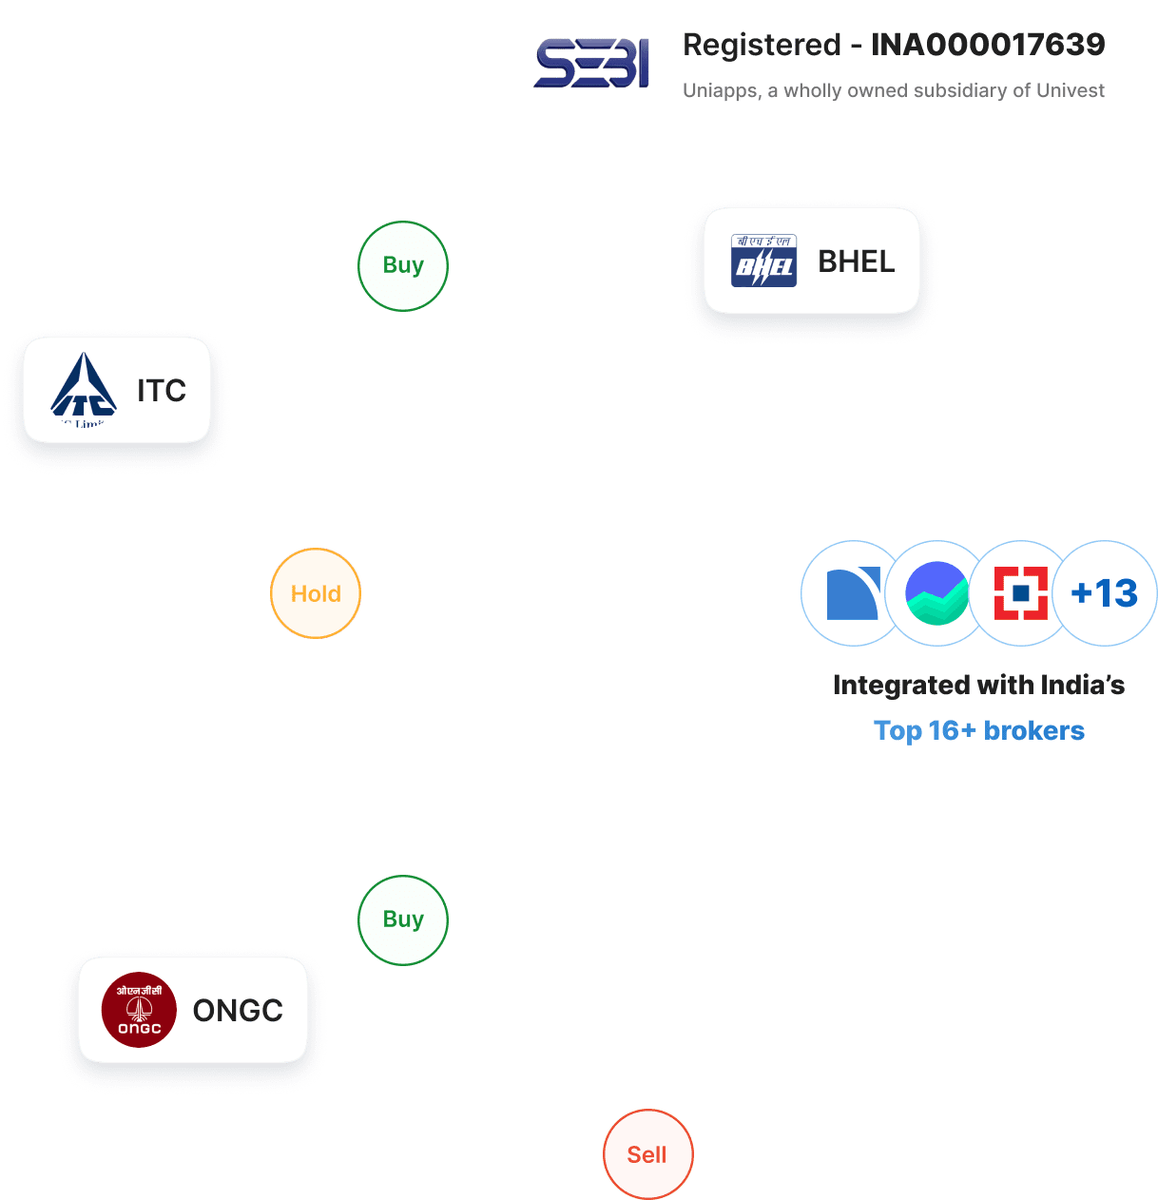
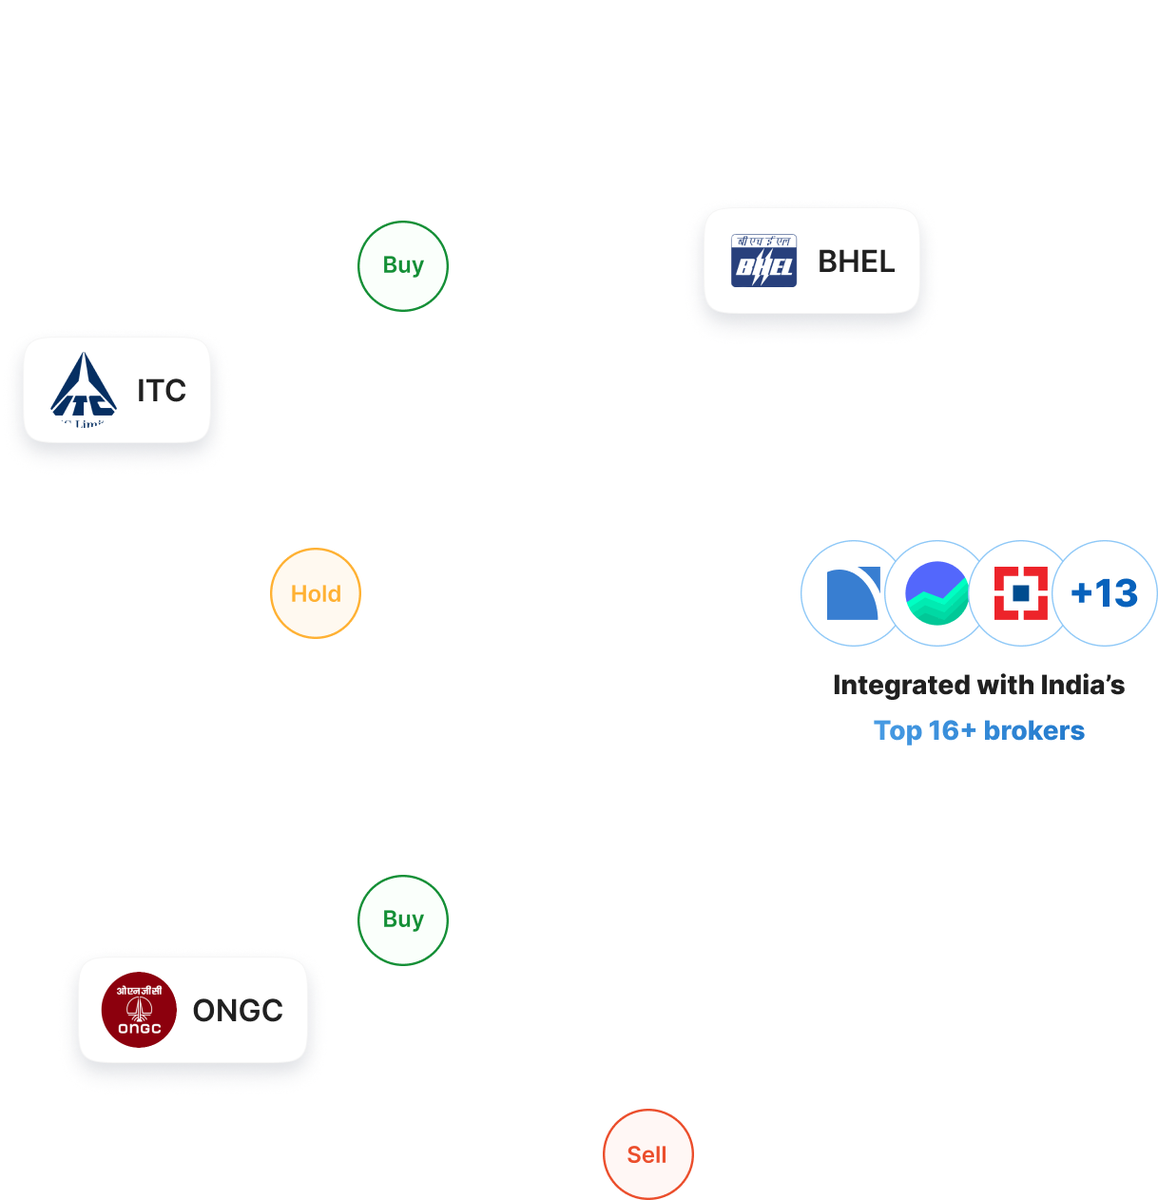
bug fixed

Changed region(s): [[0.5928, 0.0309, 0.9672, 0.0927], [0.468, 0.0309, 0.5616, 0.0927]]

diff --git a/src/components/Stocks/IdeasSection.js b/src/components/Stocks/IdeasSection.js
@@ -1,6 +1,8 @@
 import Image from "next/image";
-import sebi_logo from '@/assets/icons/sebi_logo.png';
-import sebi_logo_white from '@/assets/icons/sebi_logo_white.png';
+// import sebi_logo from '@/assets/icons/sebi_logo.png';
+// import sebi_logo_white from '@/assets/icons/sebi_logo_white.png';
+import sebi_new_logo from '@/assets/icons/sebi_new_logo.png';
+
 import { Swiper, SwiperSlide } from "swiper/react";
 import "swiper/css";
 import moment from "moment/moment";
@@ -10,6 +12,8 @@ import mini_trade_card from '@/assets/images/mini_trade_card.png';
 import yashpal_arora from '@/assets/images/yashpal_arora.png';
 import ketan_sonalkar from '@/assets/images/ketan_sonalkar.png';
 import sagar_wadhwa from '@/assets/images/sagar_wadhwa.png';
+import { AiOutlineInfoCircle } from "react-icons/ai";
+import { popUp } from '../../elements/PopUp/SEBIPopUp';
 
 
 const fetcher = (...args) => fetch(...args).then((res) => res.json())
@@ -21,21 +25,19 @@ export default function IdeasSection({ isDark = false }) {
                 <span className={`text-center text-xl lg:text-3xl font-extrabold ${isDark ? 'text-white' : 'text-[#414141]'}`}>
                     Investment & trading ideas
                 </span>
-                <div className="flex my-6 lg:my-0">
+                <div className="flex my-6 lg:my-0 items-center" onClick={() => popUp.open()}>
                     <Image
                         placeholder="empty"
-                        src={isDark ? sebi_logo_white : sebi_logo}
-                        className=' h-[40px] lg:h-[64px] w-[40px] lg:w-[64px]'
+                        src={sebi_new_logo}
+                        className=' w-[40px] lg:w-[64px]'
                         alt='demo image'
                     />
-                    <div className="self-center ml-4 lg:ml-5">
-                        <p className={`font-semibold text-sm lg:text-base ${isDark ? 'text-white' : 'text-black'}`}>Registered - <b>INA000017639</b></p>
-                        <p className={`font-medium text-[10px] ${isDark ? 'text-white' : 'text-[#606060]'}`}>Uniapps, a wholly owned subsidiary of Univest</p>
-                    </div>
+                    <p className={`font-semibold text-base lg:text-2xl mx-2 ${isDark ? 'text-white' : 'text-black'}`}>Registered</p>
+                    <AiOutlineInfoCircle color={isDark ? '#FFF' : '#202020'} className='text-[16px]  lg:text-[20px]' />
                 </div>
             </div>
             <div className="flex flex-col-reverse lg:flex-row justify-between items-center">
-                <div className="w-full lg:max-w-[32%]">
+                <div className="w-full lg:max-w-[32%] hidden">
                     <p className={`mt-10 text-center text-base lg:text-xl font-extrabold ${isDark ? 'text-white' : 'text-[#414141]'}`}>
                         Pillars of advisory team
                     </p>
@@ -47,8 +49,8 @@ export default function IdeasSection({ isDark = false }) {
                         <AdvisoryTeamCard key={ele.name} data={ele} isDark={isDark} />
                     )}
                 </div>
-                <div className="w-full lg:max-w-[60%]">
-                    <div className="flex justify-evenly items-center lg:px-10">
+                <div className="w-full lg:max-w-[60%]-">
+                    <div className="flex justify-evenly items-center lg:px-52">
                         <div className="rounded-full border-[12px] lg:border-[20px] border-black  p-[3px] lg:p-[5px]">
                             <div className="border-4 lg:border-[6px] border-black ring-4 lg:ring-[6px] ring-[#98520B]
                             flex justify-center items-center rounded-full w-20 h-20 lg:w-[110px] lg:h-[110px] bg-white bg-gradient-to-l to-[#F0943640] from-[#F09436BF]">
@@ -89,7 +91,7 @@ export default function IdeasSection({ isDark = false }) {
                                 modules={[Autoplay]}
                                 className="IdeasSection"
                             >
-                                {data?.data?.list?.map(ele =>
+                                {[...data?.data?.list, ...data?.data?.list,]?.map(ele =>
                                     <SwiperSlide key={ele.id} >
                                         <div className="overflow-hidden flex flex-col justify-between h-full w-full bg-fixed bg-[length:144px_164px] " style={{ backgroundImage: `url(${mini_trade_card.src})` }} >
                                             <span className="mt-9 ml-3 text-[8px] font-medium text-[#606060]">

diff --git a/src/components/HomePage/ProductSection.js b/src/components/HomePage/ProductSection.js
@@ -1,5 +1,5 @@
 import { BlackButton } from '@/elements/Button/Button';
-import sebi_logo from '@/assets/icons/sebi_logo.png';
+import sebi_new_logo from '@/assets/icons/sebi_new_logo.png';
 import { useState } from 'react'
 import { useTransition, animated, } from 'react-spring'
 import crisp_stock_research from '../../assets/images/crisp_stock_research.png';
@@ -13,8 +13,9 @@ import results from '../../assets/icons/results.png';
 import news from '../../assets/icons/news.png';
 import Image from "next/image";
 import background_circles from '../../assets/images/background_circles.png';
-import { useWindowSize } from '@uidotdev/usehooks';
 import { useRouter } from 'next/router';
+import { AiOutlineInfoCircle } from 'react-icons/ai';
+import { popUp } from "@/elements/PopUp/SEBIPopUp";
 
 
 const brokerList = [
@@ -72,23 +73,23 @@ export default function ProductSection() {
     })
     return (
         <section className='mt-8 px-4 lg:px-8 lg:py-20 bg-[#EDF5FF] font-Inter overflow-hidden bg-no-repeat bg-right-bottom lg:bg-center bg-[length:200vw_50%] lg:bg-cover' style={{ backgroundImage: `url(${background_circles.src})` }} >
+            <div className='max-w-screen-xl mx-auto my-5 lg:my-0 lg:mb-7 flex flex-col lg:flex-row items-center justify-between'>
+                <p className="mb-3 lg:mb-0 text-center lg:text-left text-xl lg:text-4xl font-extrabold text-[#414141]">
+                    Crisp stock research
+                </p>
+                <div className="flex col-span-3 items-center" onClick={() => popUp.open()}>
+                    <Image
+                        placeholder="empty"
+                        src={sebi_new_logo}
+                        className='object-contain w-[40px] lg:w-[64px]'
+                        alt='demo image'
+                    />
+                    <p className={`font-semibold text-base lg:text-2xl mx-2 text-black`}>Registered</p>
+                    <AiOutlineInfoCircle color='#202020' className='text-[16px]  lg:text-[20px]' />
+                </div>
+            </div>
             <div className='max-w-screen-xl mx-auto flex flex-col lg:flex-row justify-between items-center'>
                 <div className='w-full lg:w-5/12'>
-                    <p className="my-5 lg:my-0 lg:mb-7 text-center lg:text-left text-xl lg:text-5xl font-extrabold text-[#414141]">
-                        Crisp stock research
-                    </p>
-                    <div className="flex lg:hidden justify-center mt-4 mb-6">
-                        <Image
-                            placeholder="empty"
-                            src={sebi_logo}
-                            className=' h-[40px] lg:h-[64px] w-[40px] lg:w-[64px]'
-                            alt='demo image'
-                        />
-                        <div className="self-center ml-4 lg:ml-5">
-                            <p className="font-semibold text-sm lg:text-base">Registered - <b>INA000017639</b></p>
-                            <p className="font-medium text-[10px] text-[#606060]">Uniapps, a wholly owned subsidiary of Univest</p>
-                        </div>
-                    </div>
                     <p className=" text-center lg:text-left text-sm lg:text-xl font-medium text-[#414141]">
                         Personalise your investment experience with trade ideas from SEBI experts, AI based ‘Buy/Sell/Hold’ insights, advanced screeners and a lot more!
                     </p>

diff --git a/src/elements/PopUp/SEBIPopUp.js b/src/elements/PopUp/SEBIPopUp.js
@@ -1,0 +1,62 @@
+
+import Image from "next/image"
+import { createRoot } from 'react-dom/client';
+import ReactModal from "react-modal"
+
+import sebi_new_logo from '@/assets/icons/sebi_new_logo.png';
+
+
+const SEBIPopUp = () => {
+
+    return (
+        <ReactModal
+            isOpen={true}
+            ariaHideApp={false}
+            shouldFocusAfterRender={false}
+            onRequestClose={popUp.close}
+            style={{
+                overlay: {
+                    backdropFilter: "blur(2px)",
+                    backgroundColor: '#20202099',
+                    zIndex: 20
+                }
+            }}
+            className=' w-[90%] md:w-[656px] fixed top-1/2 left-1/2 -translate-y-1/2 -translate-x-1/2 '
+        >
+            <div className='select-none font-Inter flex flex-col justify-between h-full p-8 bg-white rounded-2xl'>
+                <div className="flex items-center justify-between ">
+                    <p className='text-xs md:text-base text-[#414141] font-medium'>
+                        About<br />
+                        <span className="text-base md:text-2xl font-semibold leading-8">Research team</span><br />
+                        100+ years experience
+                    </p>
+                    <Image src={sebi_new_logo} className='w-12 lg:w-20 ' alt="sebi" />
+                </div>
+                <hr className="h-px my-3 bg-[#9D9D9D] border-0" />
+                <p className='text-xs md:text-base text-black font-medium'>
+                    Guided by SEBI RA Neeraj Goswami (INA000007899), and his research team together possesses over 100 years of investing experience with proficiency to interpret company financials and conduct advanced technical analysis. Through exhaustive research of fundamentals, technicals, and macroeconomic factors, they uncover investment prospects with substantial return potential across various time frames.
+                </p>
+                <p className='text-[10px] md:text-xs text-black'>
+                    <b>Disclaimer:</b> Investment ideas suggested on the Univest app are only for informational/ educational purposes. Univest is acting only as a platform to list these ideas. Markets are subject to risk, investor discretion and diligence is advised.
+                </p>
+
+            </div>
+        </ReactModal>
+    )
+}
+var root = null;
+export const popUp = {
+    currentPopup: false,
+    close: () => {
+        root?.unmount()
+        popUp.currentPopup = false
+    },
+    open: () => {
+        root = createRoot(document.getElementById('pop-up-container'))
+        if (popUp.currentPopup) {
+            popUp.close()
+        }
+        root?.render(<SEBIPopUp />);
+        popUp.currentPopup = true
+    }
+}

diff --git a/src/components/Stocks/StocksHeroSection.js b/src/components/Stocks/StocksHeroSection.js
@@ -2,10 +2,13 @@ import Image from "next/image";
 import heroHome from '../../assets/images/hero_image_stocks_home-min.png';
 import hero from '../../assets/images/hero_image_stocks-min.png';
 import HeroSearchBox from "@/elements/HeroSearchBox";
-import sebi_logo from '../../assets/icons/sebi_logo.png';
+import sebi_new_logo from '@/assets/icons/sebi_new_logo.png';
+
 import CountUpBox from "@/elements/CountUpBox";
 import { ExploreMore } from "@/elements/Button/Button";
 import { useRouter } from "next/router";
+import { AiOutlineInfoCircle } from "react-icons/ai";
+import { popUp } from "@/elements/PopUp/SEBIPopUp";
 
 export default function StocksHeroSection({ homePage }) {
     const router = useRouter();
@@ -23,18 +26,16 @@ export default function StocksHeroSection({ homePage }) {
                         Buy-Sell-Hold insights
                     </div>
                     {homePage &&
-                        <div className='mt-8 ml-4 lg:ml-0  grid grid-cols-3 lg:grid-cols-6 justify-items-start gap-y-4 text-black'>
-                            <div className="flex col-span-3">
+                        <div className='mt-8 ml-4 lg:ml-0  grid grid-cols-2 lg:grid-cols-5 justify-items-start gap-y-4 text-black'>
+                            <div className="flex col-span-2 items-center" onClick={() => popUp.open()}>
                                 <Image
                                     placeholder="empty"
-                                    src={sebi_logo}
-                                    className=' h-[48px] lg:h-[64px] w-[48px] lg:w-[64px]'
+                                    src={sebi_new_logo}
+                                    className='object-contain w-[40px] lg:w-[64px]'
                                     alt='demo image'
                                 />
-                                <div className="self-center ml-5">
-                                    <p className="font-semibold text-base">Registered - <b>INA000017639</b></p>
-                                    <p className="font-medium text-[10px] text-[#606060]">Uniapps, a wholly owned subsidiary of Univest</p>
-                                </div>
+                                <p className={`font-semibold text-base lg:text-2xl mx-2 text-black`}>Registered</p>
+                                <AiOutlineInfoCircle color='#202020' className='text-[16px]  lg:text-[20px]' />
                             </div>
                             <div className="self-center">
                                 <p className="font-semibold text-base"><CountUpBox end={4} decimals={1} /> Lac+</p>

diff --git a/src/components/ProPage/ProHeroSection.js b/src/components/ProPage/ProHeroSection.js
@@ -1,13 +1,15 @@
 import Image from "next/image";
 import heroHome from '../../assets/images/hero_image_pro_home-min.png';
 import hero from '../../assets/images/hero_image_pro-min.png';
-import sebi_logo from '../../assets/icons/sebi_logo_white.png';
+import sebi_new_logo from '@/assets/icons/sebi_new_logo.png';
 import proIcon from '../../assets/images/proIcon.png';
 
 import HeroSearchBox from "@/elements/HeroSearchBox";
 import CountUpBox from "@/elements/CountUpBox";
 import { ExploreMore } from "@/elements/Button/Button";
 import { useRouter } from "next/router";
+import { AiOutlineInfoCircle } from "react-icons/ai";
+import { popUp } from "@/elements/PopUp/SEBIPopUp";
 
 
 
@@ -24,18 +26,16 @@ export default function ProHeroSection({ homePage }) {
                     <div className='ml-4 lg:ml-0 text-base lg:text-xl font-semibold text-white'>
                         Starts @₹199/month
                     </div>
-                    <div className='mt-8 ml-4 lg:ml-0  grid grid-cols-3 lg:grid-cols-6 justify-items-start gap-y-4 text-black'>
-                        <div className="flex col-span-3">
+                    <div className='mt-8 ml-4 lg:ml-0  grid grid-cols-2 lg:grid-cols-5 justify-items-start gap-y-4 text-black'>
+                        <div className="flex col-span-2 items-center" onClick={() => popUp.open()}>
                             <Image
                                 placeholder="empty"
-                                src={sebi_logo}
-                                className=' h-[48px] lg:h-[64px] w-[48px] lg:w-[64px]'
+                                src={sebi_new_logo}
+                                className='object-contain w-[40px] lg:w-[64px]'
                                 alt='demo image'
                             />
-                            <div className="self-center ml-5">
-                                <p className="font-semibold text-base text-white">Registered - <b>INA000017639</b></p>
-                                <p className="font-medium text-[10px] text-white">Uniapps, a wholly owned subsidiary of Univest</p>
-                            </div>
+                            <p className={`font-semibold text-base lg:text-2xl mx-2 text-white`}>Registered</p>
+                            <AiOutlineInfoCircle color='#FFF' className='text-[16px]  lg:text-[20px]' />
                         </div>
                         <div className="self-center">
                             <p className="font-semibold text-base text-white"><CountUpBox end={4} decimals={1} /> Lac+</p>

diff --git a/src/components/ProPage/QuarterlyPortfolioSection.js b/src/components/ProPage/QuarterlyPortfolioSection.js
@@ -4,7 +4,9 @@ import quarterly_percent from '../../assets/images/quarterly_percent.png';
 import quarterly_exchange from '../../assets/images/quarterly_exchange.png';
 import quarterly_red_flag from '../../assets/images/quarterly_red_flag.png';
 import { BlackButton } from '@/elements/Button/Button';
-import { popUp } from '@/elements/PopUp/PopUp';
+import { AiOutlineInfoCircle } from 'react-icons/ai';
+import sebi_new_logo from '@/assets/icons/sebi_new_logo.png';
+import { popUp } from '@/elements/PopUp/SEBIPopUp';
 
 const data = [
     { name: 'Portfolio health', icon: quarterly_heart_beat },
@@ -21,7 +23,16 @@ export default function QuarterlyPortfolioSection() {
                     <p className={`text-center text-xl lg:text-3xl font-extrabold text-white `}>
                         Quarterly Portfolio Review
                     </p>
-                    <p className={`mt-4 lg:mt-0 font-semibold text-sm lg:text-base text-white`}>By SEBI RIA&apos;s team <b>INA000017639</b></p>
+                    <div className="flex col-span-3 items-center mt-3 lg:mt-0" onClick={() => popUp.open()}>
+                        <Image
+                            placeholder="empty"
+                            src={sebi_new_logo}
+                            className='object-contain w-[40px] lg:w-[64px]'
+                            alt='demo image'
+                        />
+                        <p className={`font-semibold text-base lg:text-2xl mx-2 text-white`}>Registered</p>
+                        <AiOutlineInfoCircle color='#FFF' className='text-[16px]  lg:text-[20px]' />
+                    </div>
                 </div>
                 <div className='my-8 py-8 lg:py-16 grid grid-cols-2 grid-rows-2 lg:grid-cols-4 lg:grid-rows-1 px-4 bg-[#363636] rounded-2xl gap-y-8 lg:gap-1'>
                     {data.map(ele => <div key={ele.name} className='flex flex-col justify-center items-center'>

diff --git a/src/components/PhoneScreener/StockCard.js b/src/components/PhoneScreener/StockCard.js
@@ -37,7 +37,8 @@ export default function StockCard({ ele, data, name }) {
                 </Link>
                 <div>
                     <LivePriceBox ltpPrice={stockDetail.ltpPrice ?? ele.nseLtpPrice ?? ele.bseLtpPrice} textClass='text-[12px] leading-[20px] text-[#202020] font-semibold ' />
-                    <NseOrBsePrice ltpPrice={stockDetail.ltpPrice ?? ele.nseLtpPrice ?? ele.bseLtpPrice} closePrice={ele.nseClosePrice ?? ele.bseClosePrice}
+                    <NseOrBsePrice nseLtpPrice={stockDetail?.ltpPrice ?? ele?.nseLtpPrice} nseClosePrice={stockDetail?.c ?? ele?.nseClosePrice}
+                        bseLtpPrice={stockDetail?.ltpPrice ?? ele?.bseLtpPrice} bseClosePrice={stockDetail?.c ?? ele?.bseClosePrice}
                         textClass='text-[10px] leading-[16px] font-medium ' />
                 </div>
             </div>
@@ -97,7 +98,8 @@ export default function StockCard({ ele, data, name }) {
                                 <div className='text-[10px] landing-[16px] font-medium text-[#606060] text-right'>
                                     {data.param6}:
                                 </div>
-                                <NseOrBsePrice ltpPrice={stockDetail?.ltpPrice ?? ele?.nseLtpPrice} closePrice={ele.param5 ?? ele.param4}
+                                <NseOrBsePrice nseLtpPrice={stockDetail?.ltpPrice ?? ele?.nseLtpPrice} nseClosePrice={ele.param5 ?? ele.param4}
+                                    bseLtpPrice={stockDetail?.ltpPrice ?? ele?.bseLtpPrice} bseClosePrice={ele.param5 ?? ele.param4}
                                     textClass='text-[10px] leading-[16px] font-semibold text-right' />
                             </div> :
                             <div className="basis-1/3">

diff --git a/src/components/LaptopScreener/StockCard.js b/src/components/LaptopScreener/StockCard.js
@@ -54,7 +54,8 @@ export default function StockCard({ data, ele, i, name }) {
             {data.param6 && <>
                 {specialScreeners.includes(name) ?
                     <div className=' min-w-[110px] max-w-[110px] mr-4'>
-                        <NseOrBsePrice ltpPrice={stockDetail?.ltpPrice ?? ele?.nseLtpPrice} closePrice={ele.param5 ?? ele.param4}
+                        <NseOrBsePrice nseLtpPrice={stockDetail?.ltpPrice ?? ele?.nseLtpPrice} nseClosePrice={ele.param5 ?? ele.param4}
+                            bseLtpPrice={stockDetail?.ltpPrice ?? ele?.bseLtpPrice} bseClosePrice={ele.param5 ?? ele.param4}
                             textClass='' />
                     </div> :
                     <div className=' min-w-[110px] max-w-[110px] mr-4'>
@@ -65,7 +66,8 @@ export default function StockCard({ data, ele, i, name }) {
                 <LivePriceBox ltpPrice={stockDetail.ltpPrice ?? ele.nseLtpPrice ?? ele.bseLtpPrice} textClass='text-[14px] leading-[24px] font-semibold text-[#414141]' />
             </div>
 
-            <NseOrBsePrice ltpPrice={stockDetail.ltpPrice ?? ele.nseLtpPrice ?? ele.bseLtpPrice} closePrice={ele.nseClosePrice ?? ele.bseClosePrice}
+            <NseOrBsePrice nseLtpPrice={stockDetail?.ltpPrice ?? ele?.nseLtpPrice} nseClosePrice={stockDetail?.c ?? ele?.nseClosePrice}
+                bseLtpPrice={stockDetail?.ltpPrice ?? ele?.bseLtpPrice} bseClosePrice={stockDetail?.c ?? ele?.bseClosePrice} closePrice={ele.nseClosePrice ?? ele.bseClosePrice}
                 textClass='whitespace-nowrap min-w-[110px] max-w-[110px] mr-4 text-[14px] leading-[24px] font-semibold' />
 
             {data.param3 &&

diff --git a/src/elements/NseOrBsePrice/NseOrBsePrice.js b/src/elements/NseOrBsePrice/NseOrBsePrice.js
@@ -4,12 +4,20 @@ const ltpClosePrice = (ltp, close) => {
     return (ltp - close)?.toFixed(1);
 };
 
-export default function NseOrBsePrice({ ltpPrice, closePrice, textClass }) {
-    return (
-        <div className={`${textClass} font-Inter ${ltpClosePrice(ltpPrice, closePrice) >= 0
-            ? "text-[#26A649]" : "text-[#EB4E2C]"}`}>
-            {ltpClosePrice(ltpPrice, closePrice)} ({Math.abs((ltpClosePrice(ltpPrice, closePrice) * 100) / closePrice).toFixed(1)}%)
-        </div>
-    );
+export default function NseOrBsePrice({ nseLtpPrice, nseClosePrice, bseLtpPrice, bseClosePrice, textClass }) {
+    if (nseLtpPrice && nseLtpPrice !== 0.0) {
+        return (
+            <div className={`${textClass} font-Inter ${ltpClosePrice(nseLtpPrice, nseClosePrice) >= 0
+                ? "text-[#26A649]" : "text-[#EB4E2C]"}`}>
+                {ltpClosePrice(nseLtpPrice, nseClosePrice)} ({Math.abs((ltpClosePrice(nseLtpPrice, nseClosePrice) * 100) / nseClosePrice).toFixed(1)}%)
+            </div>
+        );
+    } else {
+        return (
+            <div className={`${textClass} font-Inter ${ltpClosePrice(bseLtpPrice, bseClosePrice) >= 0
+                ? "text-[#26A649]" : "text-[#EB4E2C]"}`}>
+                {ltpClosePrice(bseLtpPrice, bseClosePrice)} ({Math.abs((ltpClosePrice(bseLtpPrice, bseClosePrice) * 100) / bseClosePrice).toFixed(1)}%)
+            </div>
+        );
+    }
 }
-

diff --git a/src/elements/MetaSection/MetaSection.js b/src/elements/MetaSection/MetaSection.js
@@ -66,7 +66,7 @@ export default function MetaSection({ title, desc, keyWords }) {
             <title>{title ?? 'Stock Analysis, Invest in Stocks, Best Financial Tools, Invest in P2P, Investment ideas'}</title>
             <meta name="description" content={desc ?? "Best financial tools to analyse Indian stocks to research better, exit bad investments and invest smarter. Invest in high return plans with Elite and earn upto 12%"} />
             <meta name="keywords" content={keyWords ?? "Stock screener, NSE stocks, Indian stock market, stock analysis tool, stock research tool, Smart Investment, Market News, Share Market News, Share Market news, finance news, IPO News, Investment ideas, Trading ideas"} />
-            <meta charset="utf-8" />
+            <meta charSet="utf-8" />
             <meta name="theme-color" content="#00439D" />
             <meta name="msapplication-navbutton-color" content="#00439D" />
             <meta name="apple-mobile-web-app-status-bar-style" content="#00439D" />

diff --git a/src/components/Elite/EliteHeroSection.js b/src/components/Elite/EliteHeroSection.js
@@ -54,7 +54,7 @@ export default function EliteHeroSection({ homePage }) {
                             </div>
                         </div>}
                     {homePage ?
-                        <ExploreMore className='absolute -bottom-16 left-4 lg:bottom-24 lg:left-8' onClick={() => router.push('/elite')} /> :
+                        <ExploreMore className='absolute -bottom-16 left-4 lg:bottom-28 lg:left-8' onClick={() => router.push('/elite')} /> :
                         <HeroSearchBox />}
                 </div>
                 <div className={`basis-full md:basis-5/12 flex content-center relative ${homePage ? 'mt-20 lg:mt-10' : 'mt-6'}`}>

diff --git a/next.config.js b/next.config.js
@@ -10,9 +10,9 @@ const nextConfig = {
   eslint: {
     ignoreDuringBuilds: true
   },
-  exports: {
-    distDir: 'build',
-  },
+  // exports: {
+  //   distDir: 'build',
+  // },
   reactStrictMode: true,
   images: {
     domains: [
